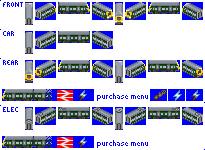
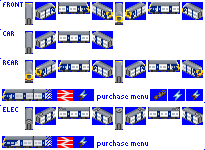
Finished sprites for 769/0/3/4

diff --git a/build.py b/build.py
@@ -209,8 +209,8 @@ def run_game(grf_name):
 
     # Kill existing processes
     print("Killing existing processes")
-    kill_process = Popen(kill_cmd)
-    kill_process.wait()
+    #kill_process = Popen(kill_cmd)
+    #kill_process.wait()
 
     # Copy grf
     print("Copying grf")
